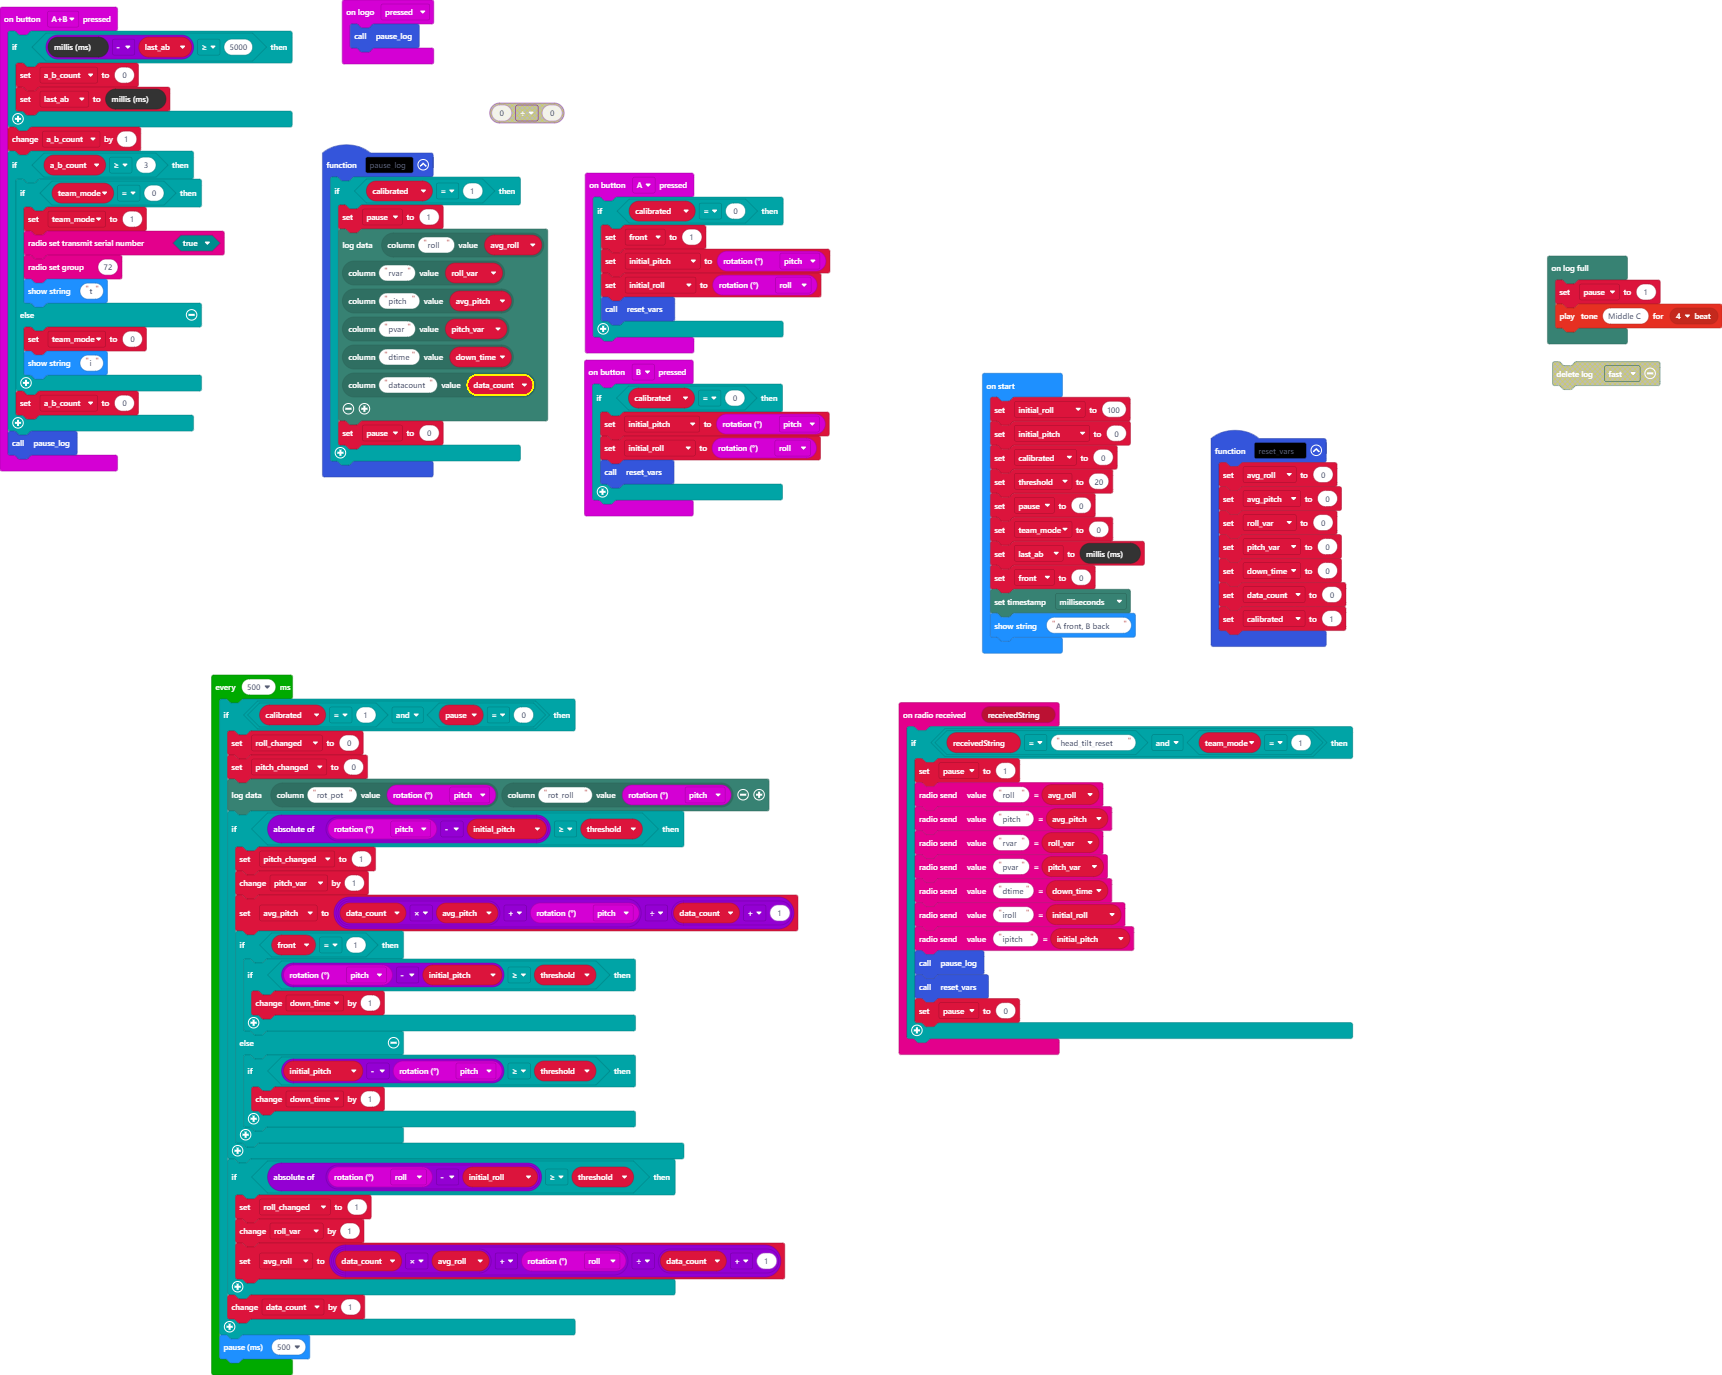
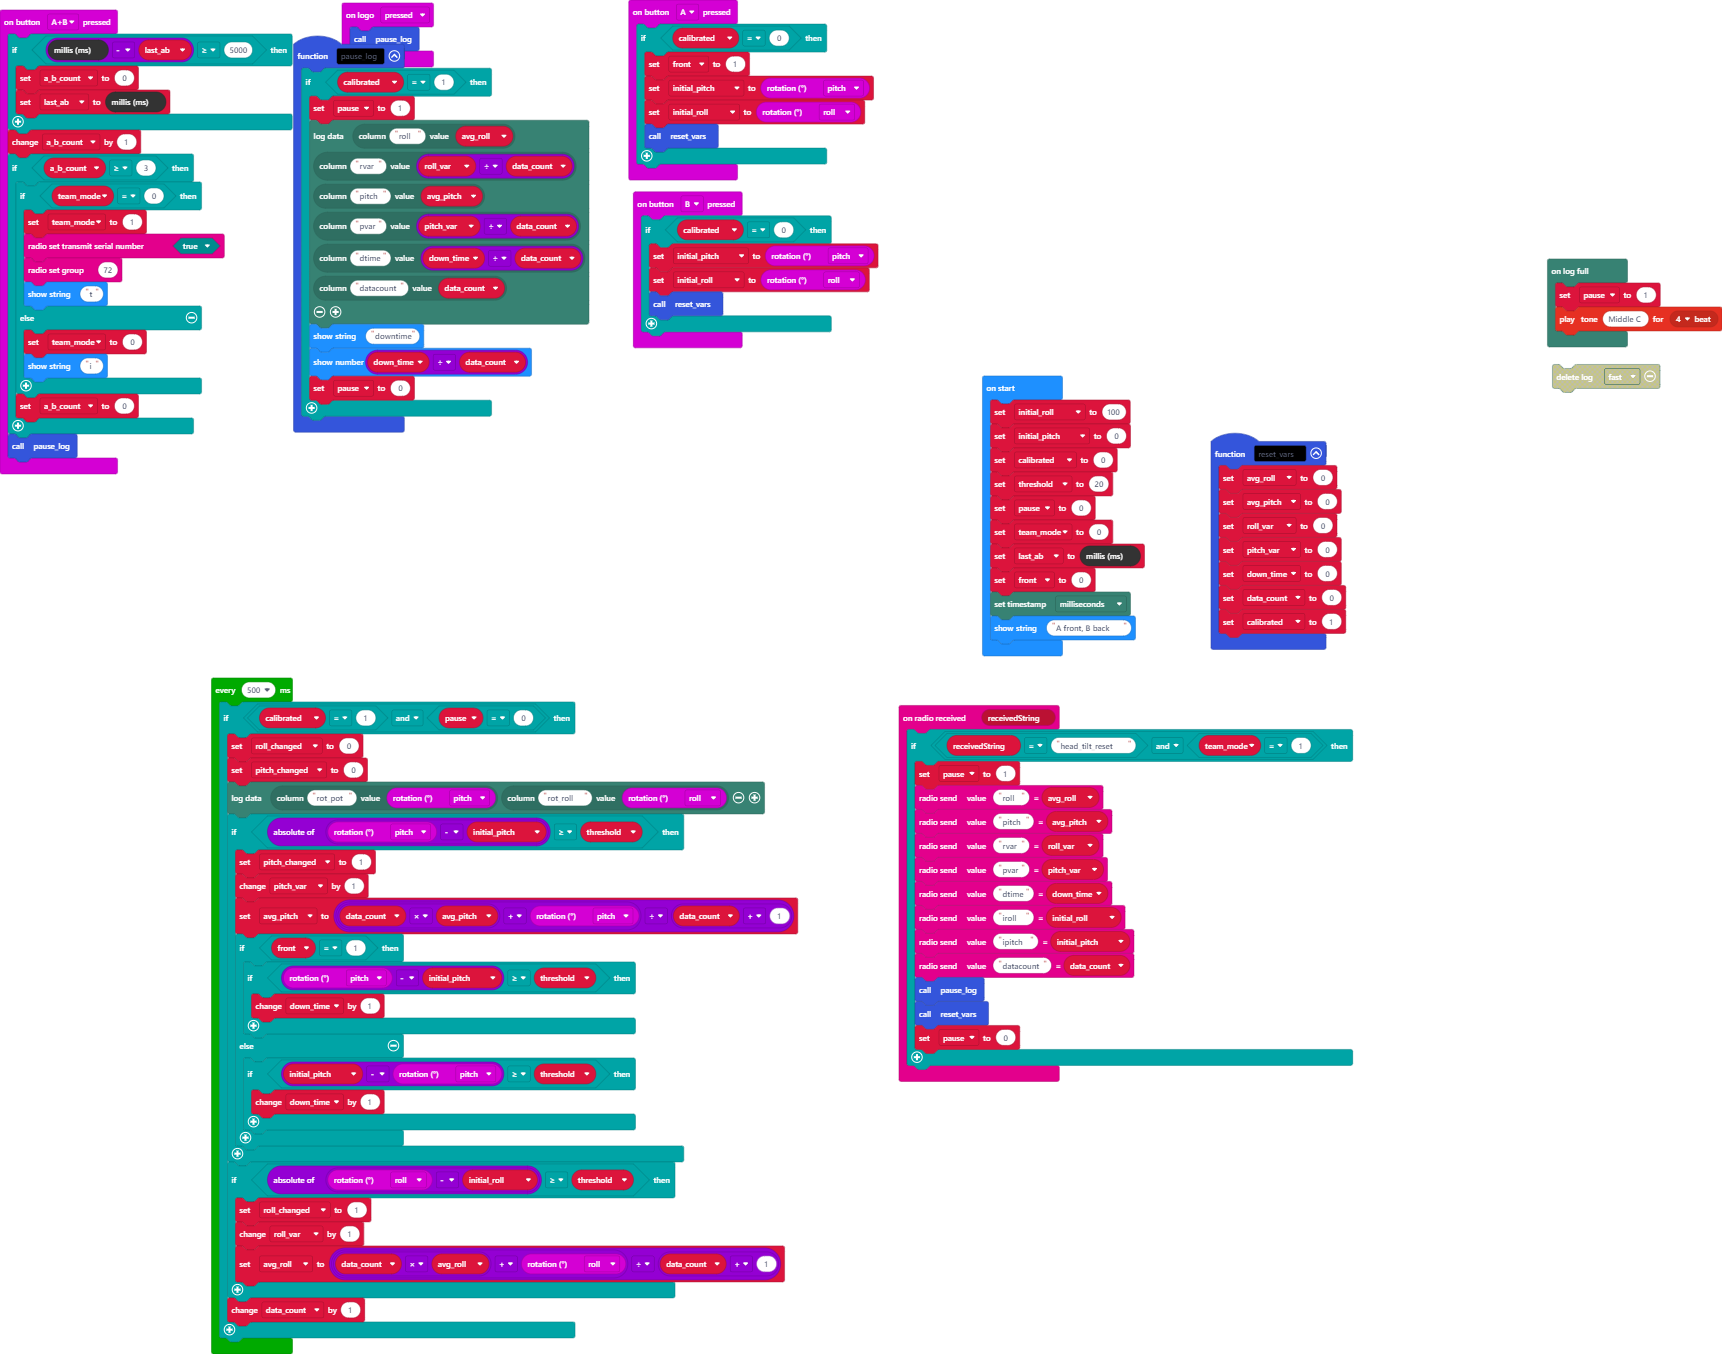
Update pxt.json, main.blocks, main.ts

diff --git a/main.ts b/main.ts
@@ -3,12 +3,14 @@ function pause_log () {
         pause2 = 1
         datalogger.log(
         datalogger.createCV("roll", avg_roll),
-        datalogger.createCV("rvar", roll_var),
+        datalogger.createCV("rvar", roll_var / data_count),
         datalogger.createCV("pitch", avg_pitch),
-        datalogger.createCV("pvar", pitch_var),
-        datalogger.createCV("dtime", down_time),
+        datalogger.createCV("pvar", pitch_var / data_count),
+        datalogger.createCV("dtime", down_time / data_count),
         datalogger.createCV("datacount", data_count)
         )
+        basic.showString("downtime")
+        basic.showNumber(down_time / data_count)
         pause2 = 0
     }
 }
@@ -63,6 +65,7 @@ radio.onReceivedString(function (receivedString) {
         radio.sendValue("dtime", down_time)
         radio.sendValue("iroll", initial_roll)
         radio.sendValue("ipitch", initial_pitch)
+        radio.sendValue("datacount", data_count)
         pause_log()
         reset_vars()
         pause2 = 0
@@ -81,10 +84,10 @@ input.onLogoEvent(TouchButtonEvent.Pressed, function () {
 let pitch_changed = 0
 let roll_changed = 0
 let a_b_count = 0
-let data_count = 0
 let down_time = 0
 let pitch_var = 0
 let avg_pitch = 0
+let data_count = 0
 let roll_var = 0
 let avg_roll = 0
 let front = 0
@@ -108,7 +111,7 @@ loops.everyInterval(500, function () {
     if (calibrated == 1 && pause2 == 0) {
         roll_changed = 0
         pitch_changed = 0
-        datalogger.log(datalogger.createCV("rot_pot", input.rotation(Rotation.Pitch)), datalogger.createCV("rot_roll", input.rotation(Rotation.Pitch)))
+        datalogger.log(datalogger.createCV("rot_pot", input.rotation(Rotation.Pitch)), datalogger.createCV("rot_roll", input.rotation(Rotation.Roll)))
         if (Math.abs(input.rotation(Rotation.Pitch) - initial_pitch) >= threshold) {
             pitch_changed = 1
             pitch_var += 1
@@ -130,5 +133,4 @@ loops.everyInterval(500, function () {
         }
         data_count += 1
     }
-    basic.pause(500)
 })
